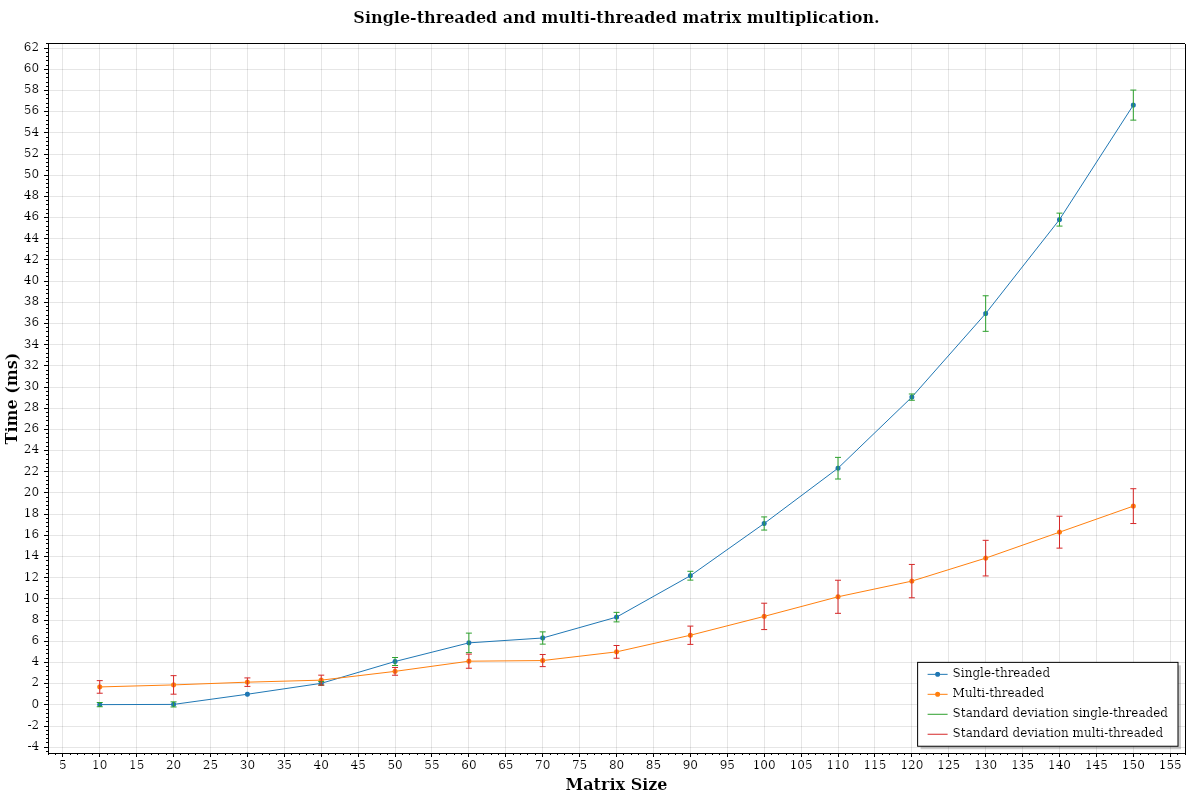
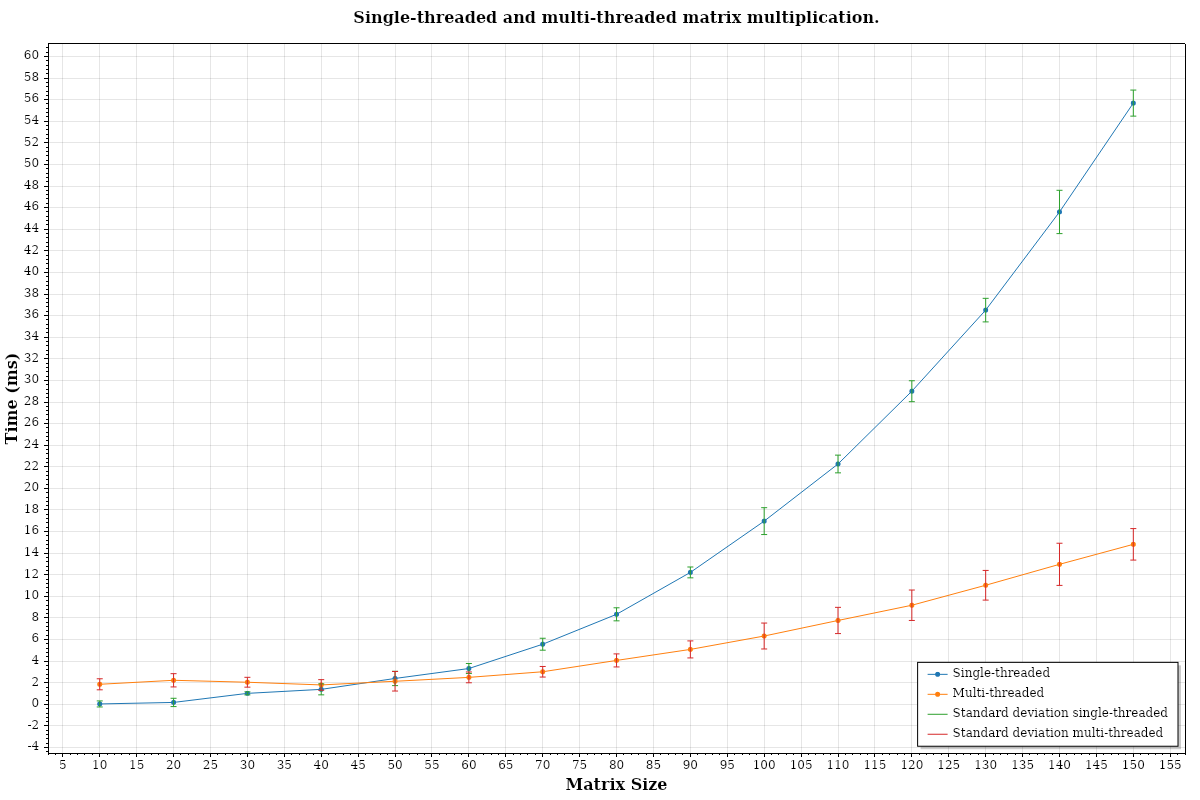
fix: fix the number of threads and other small bugs

Changed region(s): [[0.0, 0.0625, 0.9867, 0.9062]]

diff --git a/ParallelMatrixMultiplication/ParallelMatrixMultiplication/Matrix.cs b/ParallelMatrixMultiplication/ParallelMatrixMultiplication/Matrix.cs
@@ -1,6 +1,7 @@
 // <copyright file="Matrix.cs" company="Sarapulov Vasilii">
 // Copyright (c) Sarapulov Vasilii. All Rights Reserved.
-// Licensed under the MIT License. See LICENSE in the project root for license information.
+// Licensed under the MIT License. See LICENSE in the repository root for license information.
+// https://github.com/Sarapulov-Vas/Homework-3semester/blob/main/LICENSE
 // </copyright>
 
 namespace ParallelMatrixMultiplication;
@@ -78,15 +79,8 @@ public class Matrix
     /// <returns>Value of a matrix element.</returns>
     public int this[int i, int j]
     {
-        get
-        {
-            return this.matrix[i][j];
-        }
-
-        set
-        {
-            this.matrix[i][j] = value;
-        }
+        get => this.matrix[i][j];
+        set => this.matrix[i][j] = value;
     }
 
     /// <summary>
@@ -98,18 +92,18 @@ public class Matrix
     /// <exception cref="ArgumentException">Exception if matrices cannot be multiplied.</exception>
     public static Matrix Multiplication(Matrix firstMatrix, Matrix secondMatrix)
     {
-        if (!MatrixCheck(firstMatrix, secondMatrix))
+        if (firstMatrix.GetColumnsCount != secondMatrix.GetRowsCount)
         {
             throw new ArgumentException("The number of columns of the first matrix is not equal to the number of rows of the second matrix.");
         }
 
-        var currentMatrix = new int[firstMatrix.GetRowsCount(), secondMatrix.GetColumnsCount()];
+        var currentMatrix = new int[firstMatrix.GetRowsCount, secondMatrix.GetColumnsCount];
 
-        for (int i = 0; i < firstMatrix.GetRowsCount(); i++)
+        for (int i = 0; i < firstMatrix.GetRowsCount; i++)
         {
-            for (int j = 0; j < secondMatrix.GetColumnsCount(); j++)
+            for (int j = 0; j < secondMatrix.GetColumnsCount; j++)
             {
-                for (int k = 0; k < secondMatrix.GetRowsCount(); k++)
+                for (int k = 0; k < secondMatrix.GetRowsCount; k++)
                 {
                     currentMatrix[i, j] += firstMatrix[i, k] * secondMatrix[k, j];
                 }
@@ -117,7 +111,6 @@ public class Matrix
         }
 
         var result = new Matrix(currentMatrix);
-        result.ExportToFile("result.txt");
         return result;
     }
 
@@ -130,27 +123,28 @@ public class Matrix
     /// <exception cref="ArgumentException">Exception if matrices cannot be multiplied.</exception>
     public static Matrix ParallelMultiplication(Matrix firstMatrix, Matrix secondMatrix)
     {
-        if (!MatrixCheck(firstMatrix, secondMatrix))
+        if (firstMatrix.GetColumnsCount != secondMatrix.GetRowsCount)
         {
             throw new ArgumentException("The number of columns of the first matrix is not equal to the number of rows of the second matrix.");
         }
 
-        var threads = new Thread[10];
-        var chunckSize = (firstMatrix.GetRowsCount() / threads.Length) + 1;
+        var threadCount = Math.Min(Environment.ProcessorCount, firstMatrix.GetRowsCount);
+        var threads = new Thread[threadCount];
+        var chunkSize = (firstMatrix.GetRowsCount / threads.Length) + 1;
 
-        var currentMatrix = new int[firstMatrix.GetRowsCount(), secondMatrix.GetColumnsCount()];
+        var currentMatrix = new int[firstMatrix.GetRowsCount, secondMatrix.GetColumnsCount];
 
         for (int i = 0; i < threads.Length; i++)
         {
             var local = i;
             threads[i] = new Thread(() =>
             {
-                for (int j = local * chunckSize;
-                    j < (local + 1) * chunckSize && j < firstMatrix.GetRowsCount(); j++)
+                for (int j = local * chunkSize;
+                    j < (local + 1) * chunkSize && j < firstMatrix.GetRowsCount; j++)
                 {
-                    for (int k = 0; k < secondMatrix.GetColumnsCount(); k++)
+                    for (int k = 0; k < secondMatrix.GetColumnsCount; k++)
                     {
-                        for (int p = 0; p < secondMatrix.GetRowsCount(); p++)
+                        for (int p = 0; p < secondMatrix.GetRowsCount; p++)
                         {
                             currentMatrix[j, k] += firstMatrix[j, p] * secondMatrix[p, k];
                         }
@@ -169,9 +163,7 @@ public class Matrix
             thread.Join();
         }
 
-        var result = new Matrix(currentMatrix);
-        result.ExportToFile("result.txt");
-        return result;
+        return new Matrix(currentMatrix);
     }
 
     /// <summary>
@@ -182,15 +174,15 @@ public class Matrix
     /// <returns>Are matrices equivalent.</returns>
     public static bool Equals(Matrix first, Matrix second)
     {
-        if (first.GetRowsCount() != second.GetRowsCount() ||
-        first.GetColumnsCount() != second.GetColumnsCount())
+        if (first.GetRowsCount != second.GetRowsCount ||
+            first.GetColumnsCount != second.GetColumnsCount)
         {
             return false;
         }
 
-        for (int i = 0; i < first.GetRowsCount(); i++)
+        for (int i = 0; i < first.GetRowsCount; i++)
         {
-            for (int j = 0; j < first.GetColumnsCount(); j++)
+            for (int j = 0; j < first.GetColumnsCount; j++)
             {
                 if (first[i, j] != second[i, j])
                 {
@@ -219,16 +211,21 @@ public class Matrix
     }
 
     /// <summary>
-    /// Method to get the number of rows.
+    /// Gets rows count.
     /// </summary>
-    /// <returns>Number of rows in the matrix.</returns>
-    public int GetRowsCount() => this.matrix.Count;
+    public int GetRowsCount
+    {
+        get => this.matrix.Count;
+    }
 
     /// <summary>
-    /// Method to get the number of columns.
+    /// Gets number of columns.
     /// </summary>
     /// <returns>Number of columns.</returns>
-    public int GetColumnsCount() => this.matrix[0].Length;
+    public int GetColumnsCount 
+    {
+        get => this.matrix[0].Length;
+    }
 
     /// <summary>
     /// Method of unloading the matrix to a file.
@@ -250,16 +247,5 @@ public class Matrix
         }
 
         File.WriteAllLines(path, resultStrings);
-    }
-
-    /// <summary>
-    /// A method of checking matrices for the possibility of multiplication.
-    /// </summary>
-    /// <param name="firstMatrix">First matrix.</param>
-    /// <param name="secondMatrix">Second matrix.</param>
-    /// <returns>Is it possible to multiply matrices.</returns>
-    private static bool MatrixCheck(Matrix firstMatrix, Matrix secondMatrix)
-    {
-        return firstMatrix.GetColumnsCount() == secondMatrix.GetRowsCount();
     }
 }

diff --git a/ParallelMatrixMultiplication/ParallelMatrixMultiplication.Tests/MatrixMultiplicationTest.cs b/ParallelMatrixMultiplication/ParallelMatrixMultiplication.Tests/MatrixMultiplicationTest.cs
@@ -1,6 +1,7 @@
-// <copyright file="matrixMultiplicationTest.cs" company="Sarapulov Vasilii">
+// <copyright file="MatrixMultiplicationTest.cs" company="Sarapulov Vasilii">
 // Copyright (c) Sarapulov Vasilii. All Rights Reserved.
-// Licensed under the MIT License. See LICENSE in the project root for license information.
+// Licensed under the MIT License. See LICENSE in the repository root for license information.
+// https://github.com/Sarapulov-Vas/Homework-3semester/blob/main/LICENSE
 // </copyright>
 
 namespace ParallelMatrixMultiplication.Tests;
@@ -38,9 +39,7 @@ public class Tests
     [TestCase("../../../TestFiles/matrix2.txt")]
     [TestCase("../../../TestFiles/matrix3.txt")]
     public void TestEquals(string inputFilePath)
-    {
-        Assert.IsTrue(Matrix.Equals(new Matrix(inputFilePath), new Matrix(inputFilePath)));
-    }
+        => Assert.IsTrue(Matrix.Equals(new Matrix(inputFilePath), new Matrix(inputFilePath)));
 
     /// <summary>
     /// Matrix equivalence test.
@@ -52,9 +51,7 @@ public class Tests
     [TestCase("../../../TestFiles/matrix3.txt", "../../../TestFiles/matrix1.txt")]
     [TestCase("../../../TestFiles/matrix1.txt", "../../../TestFiles/matrix4.txt")]
     public void TestNotEquals(string inputFilePath1, string inputFilePath2)
-    {
-        Assert.IsFalse(Matrix.Equals(new Matrix(inputFilePath1), new Matrix(inputFilePath2)));
-    }
+        => Assert.IsFalse(Matrix.Equals(new Matrix(inputFilePath1), new Matrix(inputFilePath2)));
 
     /// <summary>
     /// Matrices multiplication test.
@@ -102,7 +99,7 @@ public class Tests
     public void TestGetColumnsCount(string path, int number)
     {
         var matrix = new Matrix(path);
-        Assert.That(matrix.GetColumnsCount(), Is.EqualTo(number));
+        Assert.That(matrix.GetColumnsCount, Is.EqualTo(number));
     }
 
     /// <summary>
@@ -117,7 +114,7 @@ public class Tests
     public void TestGetRowsCount(string path, int number)
     {
         var matrix = new Matrix(path);
-        Assert.That(matrix.GetRowsCount(), Is.EqualTo(number));
+        Assert.That(matrix.GetRowsCount, Is.EqualTo(number));
     }
 
     /// <summary>
@@ -139,9 +136,7 @@ public class Tests
     [TestCase("../../../TestFiles/incorrectFile2.txt")]
     [TestCase("../../../TestFiles/incorrectFile3.txt")]
     public void TestIncorrectFile(string path)
-    {
-        Assert.Throws<IncorrectFileException>(() => new Matrix(path));
-    }
+        => Assert.Throws<IncorrectFileException>(() => new Matrix(path));
 
     /// <summary>
     /// Test the method of exporting a matrix to a file.

diff --git a/ParallelMatrixMultiplication/ParallelMatrixMultiplication/Program.cs b/ParallelMatrixMultiplication/ParallelMatrixMultiplication/Program.cs
@@ -1,13 +1,14 @@
 // <copyright file="Program.cs" company="Sarapulov Vasilii">
 // Copyright (c) Sarapulov Vasilii. All Rights Reserved.
-// Licensed under the MIT License. See LICENSE in the project root for license information.
+// Licensed under the MIT License. See LICENSE in the repository root for license information.
+// https://github.com/Sarapulov-Vas/Homework-3semester/blob/main/LICENSE
 // </copyright>
 
 using ParallelMatrixMultiplication;
 using System.Diagnostics;
 using ScottPlot;
 
-var sw = new Stopwatch();
+var stopwatch = new Stopwatch();
 var n = 100;
 List<double> xSize = [];
 List<double> yTime = [];
@@ -24,16 +25,16 @@ for (int i = 1; i <= 15; i++)
     var parallelTimes = new double[n];
     for (int j = 0; j < n; j++)
     {
-        sw.Start();
+        stopwatch.Start();
         Matrix.Multiplication(matrix, matrix);
-        sw.Stop();
-        times[j] = sw.ElapsedMilliseconds;
-        sw.Reset();
-        sw.Start();
+        stopwatch.Stop();
+        times[j] = stopwatch.ElapsedMilliseconds;
+        stopwatch.Reset();
+        stopwatch.Start();
         Matrix.ParallelMultiplication(matrix, matrix);
-        sw.Stop();
-        parallelTimes[j] = sw.ElapsedMilliseconds;
-        sw.Reset();
+        stopwatch.Stop();
+        parallelTimes[j] = stopwatch.ElapsedMilliseconds;
+        stopwatch.Reset();
     }
 
     var meanValue = (double)times.Sum() / n;
@@ -53,7 +54,6 @@ for (int i = 1; i <= 15; i++)
 
     var parallelStandardDeviation = Math.Sqrt(parallelSum / n);
     xSize.Add(size);
-    Console.WriteLine(size);
     yTime.Add(meanValue);
     yParallelTime.Add(parallelMeanValue);
     yStandardDeviation.Add(standardDeviation);

diff --git a/ParallelMatrixMultiplication/ParallelMatrixMultiplication/Exceptions/IncorrectFileException.cs b/ParallelMatrixMultiplication/ParallelMatrixMultiplication/Exceptions/IncorrectFileException.cs
@@ -1,6 +1,7 @@
 // <copyright file="IncorrectFileException.cs" company="Sarapulov Vasilii">
 // Copyright (c) Sarapulov Vasilii. All Rights Reserved.
-// Licensed under the MIT License. See LICENSE in the project root for license information.
+// Licensed under the MIT License. See LICENSE in the repository root for license information.
+// https://github.com/Sarapulov-Vas/Homework-3semester/blob/main/LICENSE
 // </copyright>
 
 namespace ParallelMatrixMultiplication;

diff --git a/ParallelMatrixMultiplication/MatrixGenerator/MatrixGenerator.cs b/ParallelMatrixMultiplication/MatrixGenerator/MatrixGenerator.cs
@@ -1,6 +1,7 @@
 // <copyright file="MatrixGenerator.cs" company="Sarapulov Vasilii">
 // Copyright (c) Sarapulov Vasilii. All Rights Reserved.
-// Licensed under the MIT License. See LICENSE in the project root for license information.
+// Licensed under the MIT License. See LICENSE in the repository root for license information.
+// https://github.com/Sarapulov-Vas/Homework-3semester/blob/main/LICENSE
 // </copyright>
 
 namespace MatrixGenerator;

diff --git a/ParallelMatrixMultiplication/ParallelMatrixMultiplication.Tests/GlobalUsings.cs b/ParallelMatrixMultiplication/ParallelMatrixMultiplication.Tests/GlobalUsings.cs
@@ -1,6 +1,7 @@
 // <copyright file="GlobalUsings.cs" company="Sarapulov Vasilii">
 // Copyright (c) Sarapulov Vasilii. All Rights Reserved.
-// Licensed under the MIT License. See LICENSE in the project root for license information.
+// Licensed under the MIT License. See LICENSE in the repository root for license information.
+// https://github.com/Sarapulov-Vas/Homework-3semester/blob/main/LICENSE
 // </copyright>
 
 global using NUnit.Framework;
